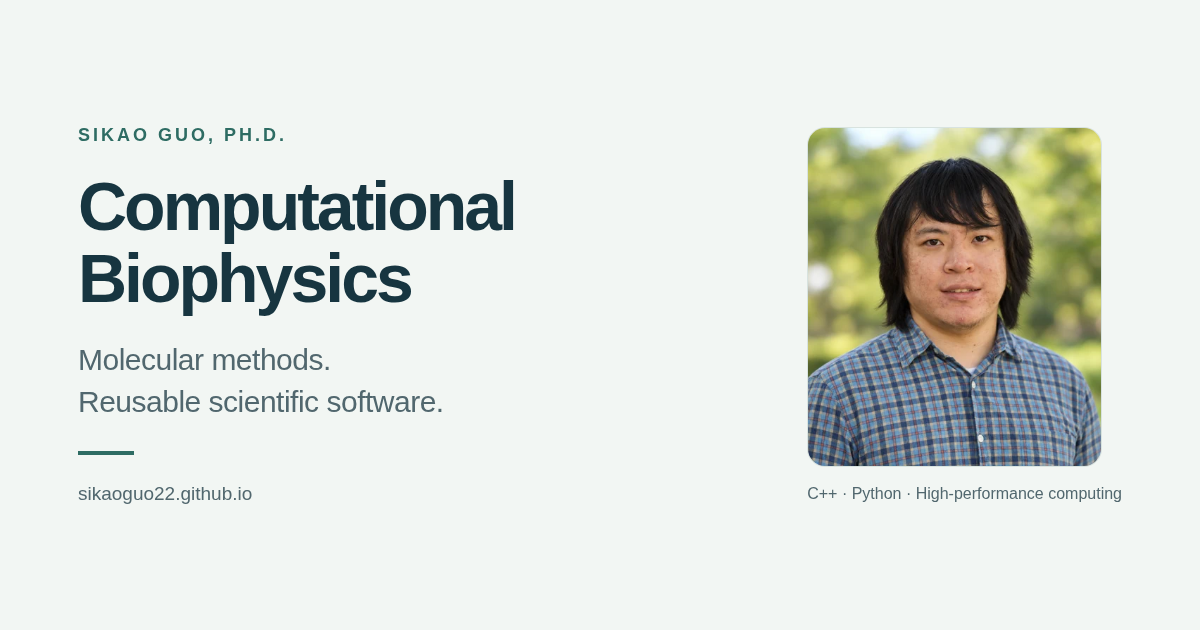
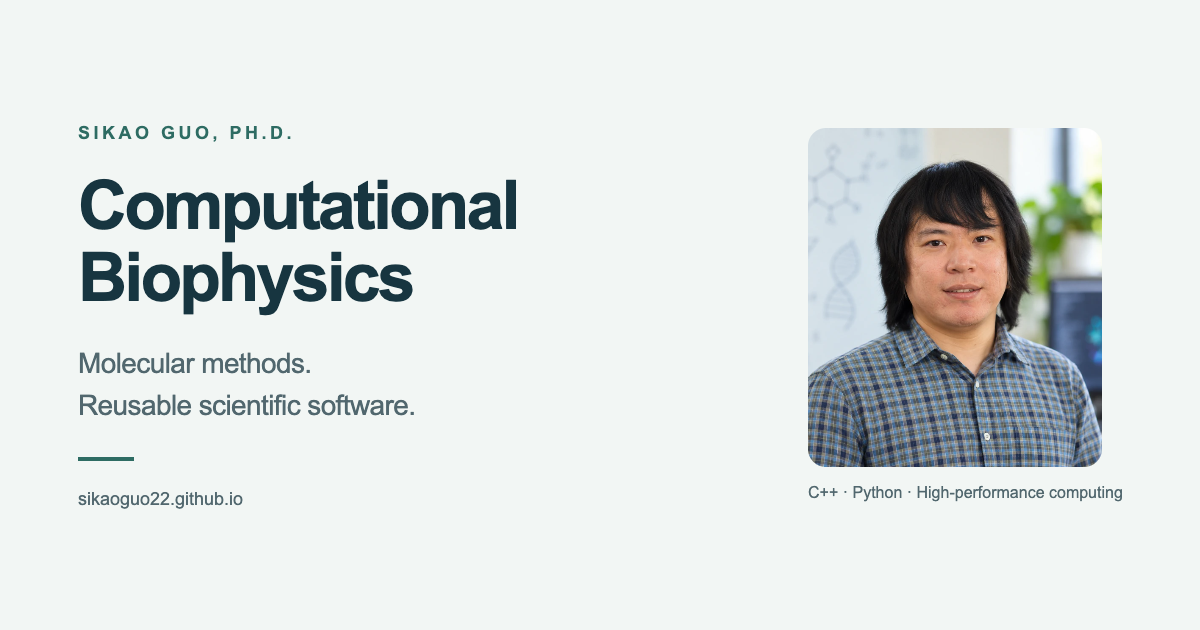
feat: update website profile photo

diff --git a/scripts/build.py b/scripts/build.py
@@ -135,7 +135,7 @@ def write_page(route: str, title: str, body: str, active: str = '', description:
 
 
 def portrait(cls: str = 'portrait-card', eager: bool = False) -> str:
-    return f'''<figure class="{cls}"><img src="{link('/assets/sikao-guo-480.webp')}" srcset="{link('/assets/sikao-guo-480.webp')} 480w, {link('/assets/sikao-guo-800.webp')} 800w" sizes="(max-width: 600px) 310px, 360px" alt="Sikao Guo, wearing a blue checked shirt, outdoors" width="800" height="800" loading="{'eager' if eager else 'lazy'}" decoding="async" {'fetchpriority="high"' if eager else ''}><figcaption class="portrait-caption"><div><strong>Sikao Guo, Ph.D.</strong><p>Research Engineer · Inria</p></div><span class="initials" aria-hidden="true">SG</span></figcaption></figure>'''
+    return f'''<figure class="{cls}"><img src="{link('/assets/sikao-guo-480.webp')}" srcset="{link('/assets/sikao-guo-480.webp')} 480w, {link('/assets/sikao-guo-800.webp')} 800w" sizes="(max-width: 600px) 310px, 360px" alt="Portrait of Sikao Guo wearing a blue checked shirt" width="800" height="800" loading="{'eager' if eager else 'lazy'}" decoding="async" {'fetchpriority="high"' if eager else ''}><figcaption class="portrait-caption"><div><strong>Sikao Guo, Ph.D.</strong><p>Research Engineer · Inria</p></div><span class="initials" aria-hidden="true">SG</span></figcaption></figure>'''
 
 
 def diagram(kind: str) -> str:

diff --git a/SOURCE_NOTES.md b/SOURCE_NOTES.md
@@ -34,10 +34,10 @@ first-author claim.
 
 ## Visual assets
 
-The portrait is the improved profile photo supplied/generated earlier in the
-same conversation. Only optimized web sizes were made for this website; no new
-facial retouching was done for the website update. The social card is a rendered
-HTML layout using that photo and the site's own typography.
+The portrait was replaced on September 11, 2026 with the user-supplied `me.png`.
+Only optimized web sizes were made for this website; no facial retouching was
+applied. The social card is a rendered HTML layout using that photo and the
+site's own typography.
 
 New project visuals are labeled conceptual schematics. They are not scientific
 data or original research figures. Existing repository artwork does not need to
